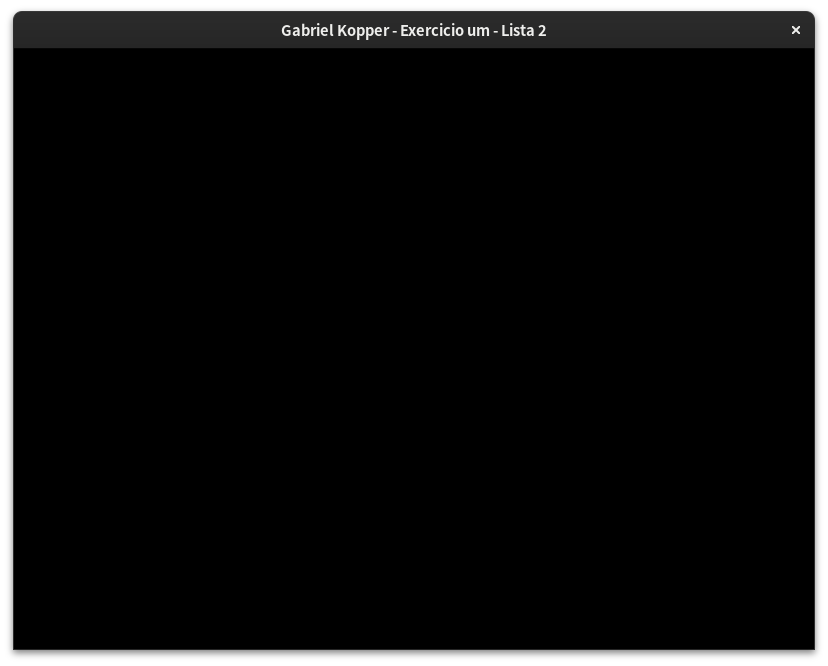
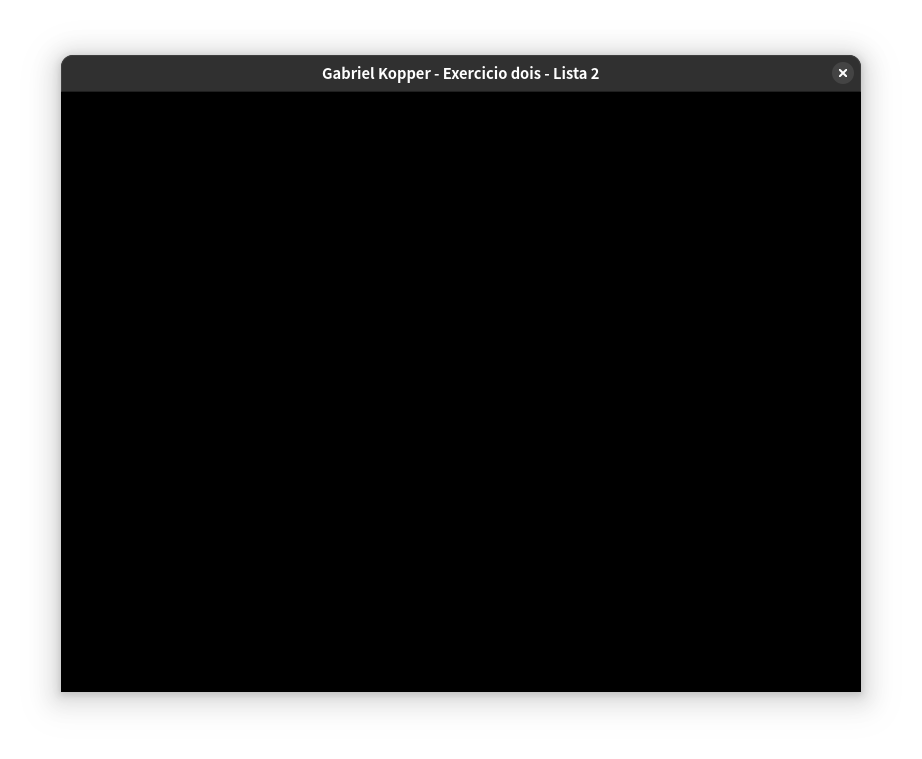
adicionando o 4 e 5 e corrigindo o 2

Changed region(s): [[0.0, 0.0, 0.9964, 0.991]]

diff --git a/lista2/apps/cinco.cpp b/lista2/apps/cinco.cpp
@@ -22,7 +22,7 @@ int main() {
 	glfwWindowHint(GLFW_OPENGL_PROFILE, GLFW_OPENGL_CORE_PROFILE);
 
 	// Criação da janela GLFW
-	GLFWwindow* window = glfwCreateWindow(WIDTH, HEIGHT, "Gabriel Kopper - Exercicio dois - Lista 2", nullptr, nullptr);
+	GLFWwindow* window = glfwCreateWindow(WIDTH, HEIGHT, "Gabriel Kopper - Exercicio cinco - Lista 2", nullptr, nullptr);
 	glfwMakeContextCurrent(window);
     if (gladLoadGL(glfwGetProcAddress) == 0) {
         std::cout << "Failed to initialize OpenGL context" << std::endl;
@@ -30,7 +30,6 @@ int main() {
     }
     int width, height;
     glfwGetFramebufferSize(window, &width, &height);
-	glViewport(0, 0, width, height);
 
     Shader shader(VERT_SHADER, FRAG_SHADER);
     std::optional<GLuint> shaderId = shader.compile();
@@ -43,7 +42,7 @@ int main() {
     vao_builder.addData<float>("position", vertexes);
     GLuint vao = vao_builder.build();
 
-    glm::mat4 projection = glm::ortho(0.0f,800.0f,0.0f,600.0f,-1.0f,1.0f);
+    glm::mat4 projection = glm::ortho(-1.0f,1.0f,-1.0f,1.0f,-1.0f,1.0f);
 
 	glUseProgram(shaderId.value());
 
@@ -52,12 +51,15 @@ int main() {
     while (!glfwWindowShouldClose(window)) {
         glfwPollEvents();
 
-        glClearColor(0.f, 0.f, 0.f, 1.0f);
+        glClearColor(0.0f, 0.0f, 0.0f, 1.0f);
 
         glClear(GL_COLOR_BUFFER_BIT);
 
 		glBindVertexArray(vao); //Conectando ao buffer de geometria
-        glDrawArrays(GL_TRIANGLES, 0, 3);
+        for (uint8_t i = 0; i < 4; ++i) {
+            glViewport(width/2 * (i>>1), height/2 * (i&1), width/2, height/2);
+            glDrawArrays(GL_TRIANGLES, 0, 3);
+        }
 		glBindVertexArray(0); //Desconectando o buffer de geometria
 
 		// Troca os buffers da tela

diff --git a/lista2/apps/quatro.cpp b/lista2/apps/quatro.cpp
@@ -22,7 +22,7 @@ int main() {
 	glfwWindowHint(GLFW_OPENGL_PROFILE, GLFW_OPENGL_CORE_PROFILE);
 
 	// Criação da janela GLFW
-	GLFWwindow* window = glfwCreateWindow(WIDTH, HEIGHT, "Gabriel Kopper - Exercicio dois - Lista 2", nullptr, nullptr);
+	GLFWwindow* window = glfwCreateWindow(WIDTH, HEIGHT, "Gabriel Kopper - Exercicio quatro - Lista 2", nullptr, nullptr);
 	glfwMakeContextCurrent(window);
     if (gladLoadGL(glfwGetProcAddress) == 0) {
         std::cout << "Failed to initialize OpenGL context" << std::endl;
@@ -30,7 +30,7 @@ int main() {
     }
     int width, height;
     glfwGetFramebufferSize(window, &width, &height);
-	glViewport(0, 0, width, height);
+	glViewport(width/2, height/2, width/2, height/2);
 
     Shader shader(VERT_SHADER, FRAG_SHADER);
     std::optional<GLuint> shaderId = shader.compile();
@@ -43,7 +43,7 @@ int main() {
     vao_builder.addData<float>("position", vertexes);
     GLuint vao = vao_builder.build();
 
-    glm::mat4 projection = glm::ortho(0.0f,800.0f,0.0f,600.0f,-1.0f,1.0f);
+    glm::mat4 projection = glm::ortho(-1.0f,1.0f,-1.0f,1.0f,-1.0f,1.0f);
 
 	glUseProgram(shaderId.value());
 
@@ -52,7 +52,7 @@ int main() {
     while (!glfwWindowShouldClose(window)) {
         glfwPollEvents();
 
-        glClearColor(0.f, 0.f, 0.f, 1.0f);
+        glClearColor(0.0f, 0.0f, 0.0f, 1.0f);
 
         glClear(GL_COLOR_BUFFER_BIT);
 
